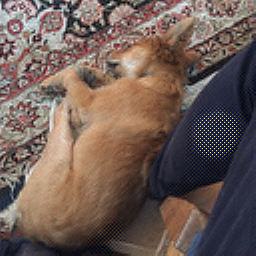
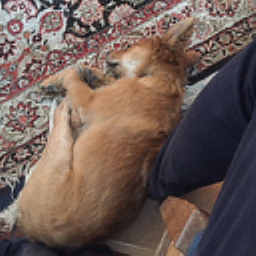
Checkerboard artefact removal

diff --git a/deepimg.py b/deepimg.py
@@ -1,6 +1,5 @@
 import tensorflow as tf
 import numpy as np
-import scipy.misc
 import scipy.stats as st
 
 # Name of image to upscale. Must be a 256x256 PNG.
@@ -8,7 +7,7 @@ image_name = "pupper.png"
 dim = 256
 
 def load_image(filename, dim):
-    with open(image_name, 'r') as f:
+    with open(image_name, 'rb') as f:
         raw_image = tf.image.decode_png(f.read())
 
     converted = tf.image.convert_image_dtype(
@@ -36,7 +35,7 @@ def save_image(filename, image):
 
     encoded_img = tf.image.encode_png(converted_img)
     
-    with open(filename, 'w') as f:
+    with open(filename, 'wb') as f:
         f.write(encoded_img.eval())
 
 def down_layer(layer):
@@ -85,7 +84,7 @@ def up_layer(layer):
     layer = tf.contrib.layers.conv2d(
         inputs=layer,
         num_outputs=3,
-        kernel_size=3,
+        kernel_size=1,
         padding='SAME',
         activation_fn=None)
     
@@ -145,7 +144,7 @@ out = tf.constant(np.random.uniform(0, 0.1, size=(1,dim,dim,32)), dtype=tf.float
 
 # Connect up all the downsampling layers.
 skips = []
-for i in xrange(down_layer_count):
+for i in range(down_layer_count):
     out = down_layer(out)
     # Keep a list of the skip layers, so they can be connected
     # to the upsampling layers.
@@ -155,7 +154,7 @@ print("Shape after downsample: " + str(out.get_shape()))
 
 # Connect up the upsampling layers, from smallest to largest.
 skips.reverse()
-for i in xrange(up_layer_count):
+for i in range(up_layer_count):
     if i == 0:
         # As specified in the paper, the first upsampling layers is connected to
         # the last downsampling layer through a skip layer.
@@ -169,7 +168,19 @@ for i in xrange(up_layer_count):
         
 print("Shape after upsample: " + str(out.get_shape()))
 
-E = tf.reduce_mean(tf.squared_difference(gblur(out), image))
+# Restore original image dimensions and channels
+out = tf.contrib.layers.conv2d(
+    inputs=out,
+    num_outputs=3,
+    kernel_size=1,
+    stride=1,
+    padding='SAME',
+    activation_fn=tf.nn.sigmoid)
+print("Output shape: " + str(out.get_shape()))
+
+# Use built-in rms implementation
+E = tf.losses.mean_squared_error(image, gblur(out))
+#E = tf.reduce_mean(tf.squared_difference(gblur(out), image))
 
 optimizer = tf.train.AdamOptimizer(learning_rate=0.01)
 update_ops = tf.get_collection(tf.GraphKeys.UPDATE_OPS)
@@ -181,7 +192,7 @@ sess.run(tf.global_variables_initializer())
 
 save_image("output/corrupt.png", tf.reshape(image, (dim,dim,3)))
 
-for i in xrange(5001):
+for i in range(5001):
     new_rand = np.random.uniform(0, 1.0/30.0, size=(1,dim,dim,32))
     _, lossval = sess.run(
         [train_op, E],
@@ -191,7 +202,3 @@ for i in xrange(5001):
         image_out = sess.run(out, feed_dict={rand: new_rand}).reshape(dim,dim,3)
         save_image("output/%d_%s" % (i, image_name), image_out)
     print(i, lossval)
-
-
-
-

diff --git a/README.md b/README.md
@@ -1,7 +1,7 @@
 This is a tensorflow implemenation of [Deep Image Prior](https://dmitryulyanov.github.io/deep_image_prior).
 
 # Setup
-- Install python 2.6, [tensorflow](https://www.tensorflow.org/install/) (tested on 1.4.0), numpy, and scipy.
+- Install python 3.6, [tensorflow](https://www.tensorflow.org/install/) (tested on 1.5.0+), numpy, and scipy.
 - Run it: `python deepimg.py`
 - Every 100 iterations, the current image is written to the `output` directory.
   - The input image will be blurred and written to `output/corrupted.png`. This is the starting image that the model attempts to sharpen.
@@ -9,7 +9,7 @@ This is a tensorflow implemenation of [Deep Image Prior](https://dmitryulyanov.g
 # Known issues and discrepancies
 - This only implements super resolution.
 - This uses a Gaussian blur rather than a Lanczos2 kernel for the downsampling operator in E.
-- The output images suffer from a checkerboard artifact.
+- ~~The output images suffer from a checkerboard artifact.~~
 
 # Example
 ![Blurred pupper](corrupt.png?raw=true) ![Upsampled pupper](4000_pupper.png?raw=true)
